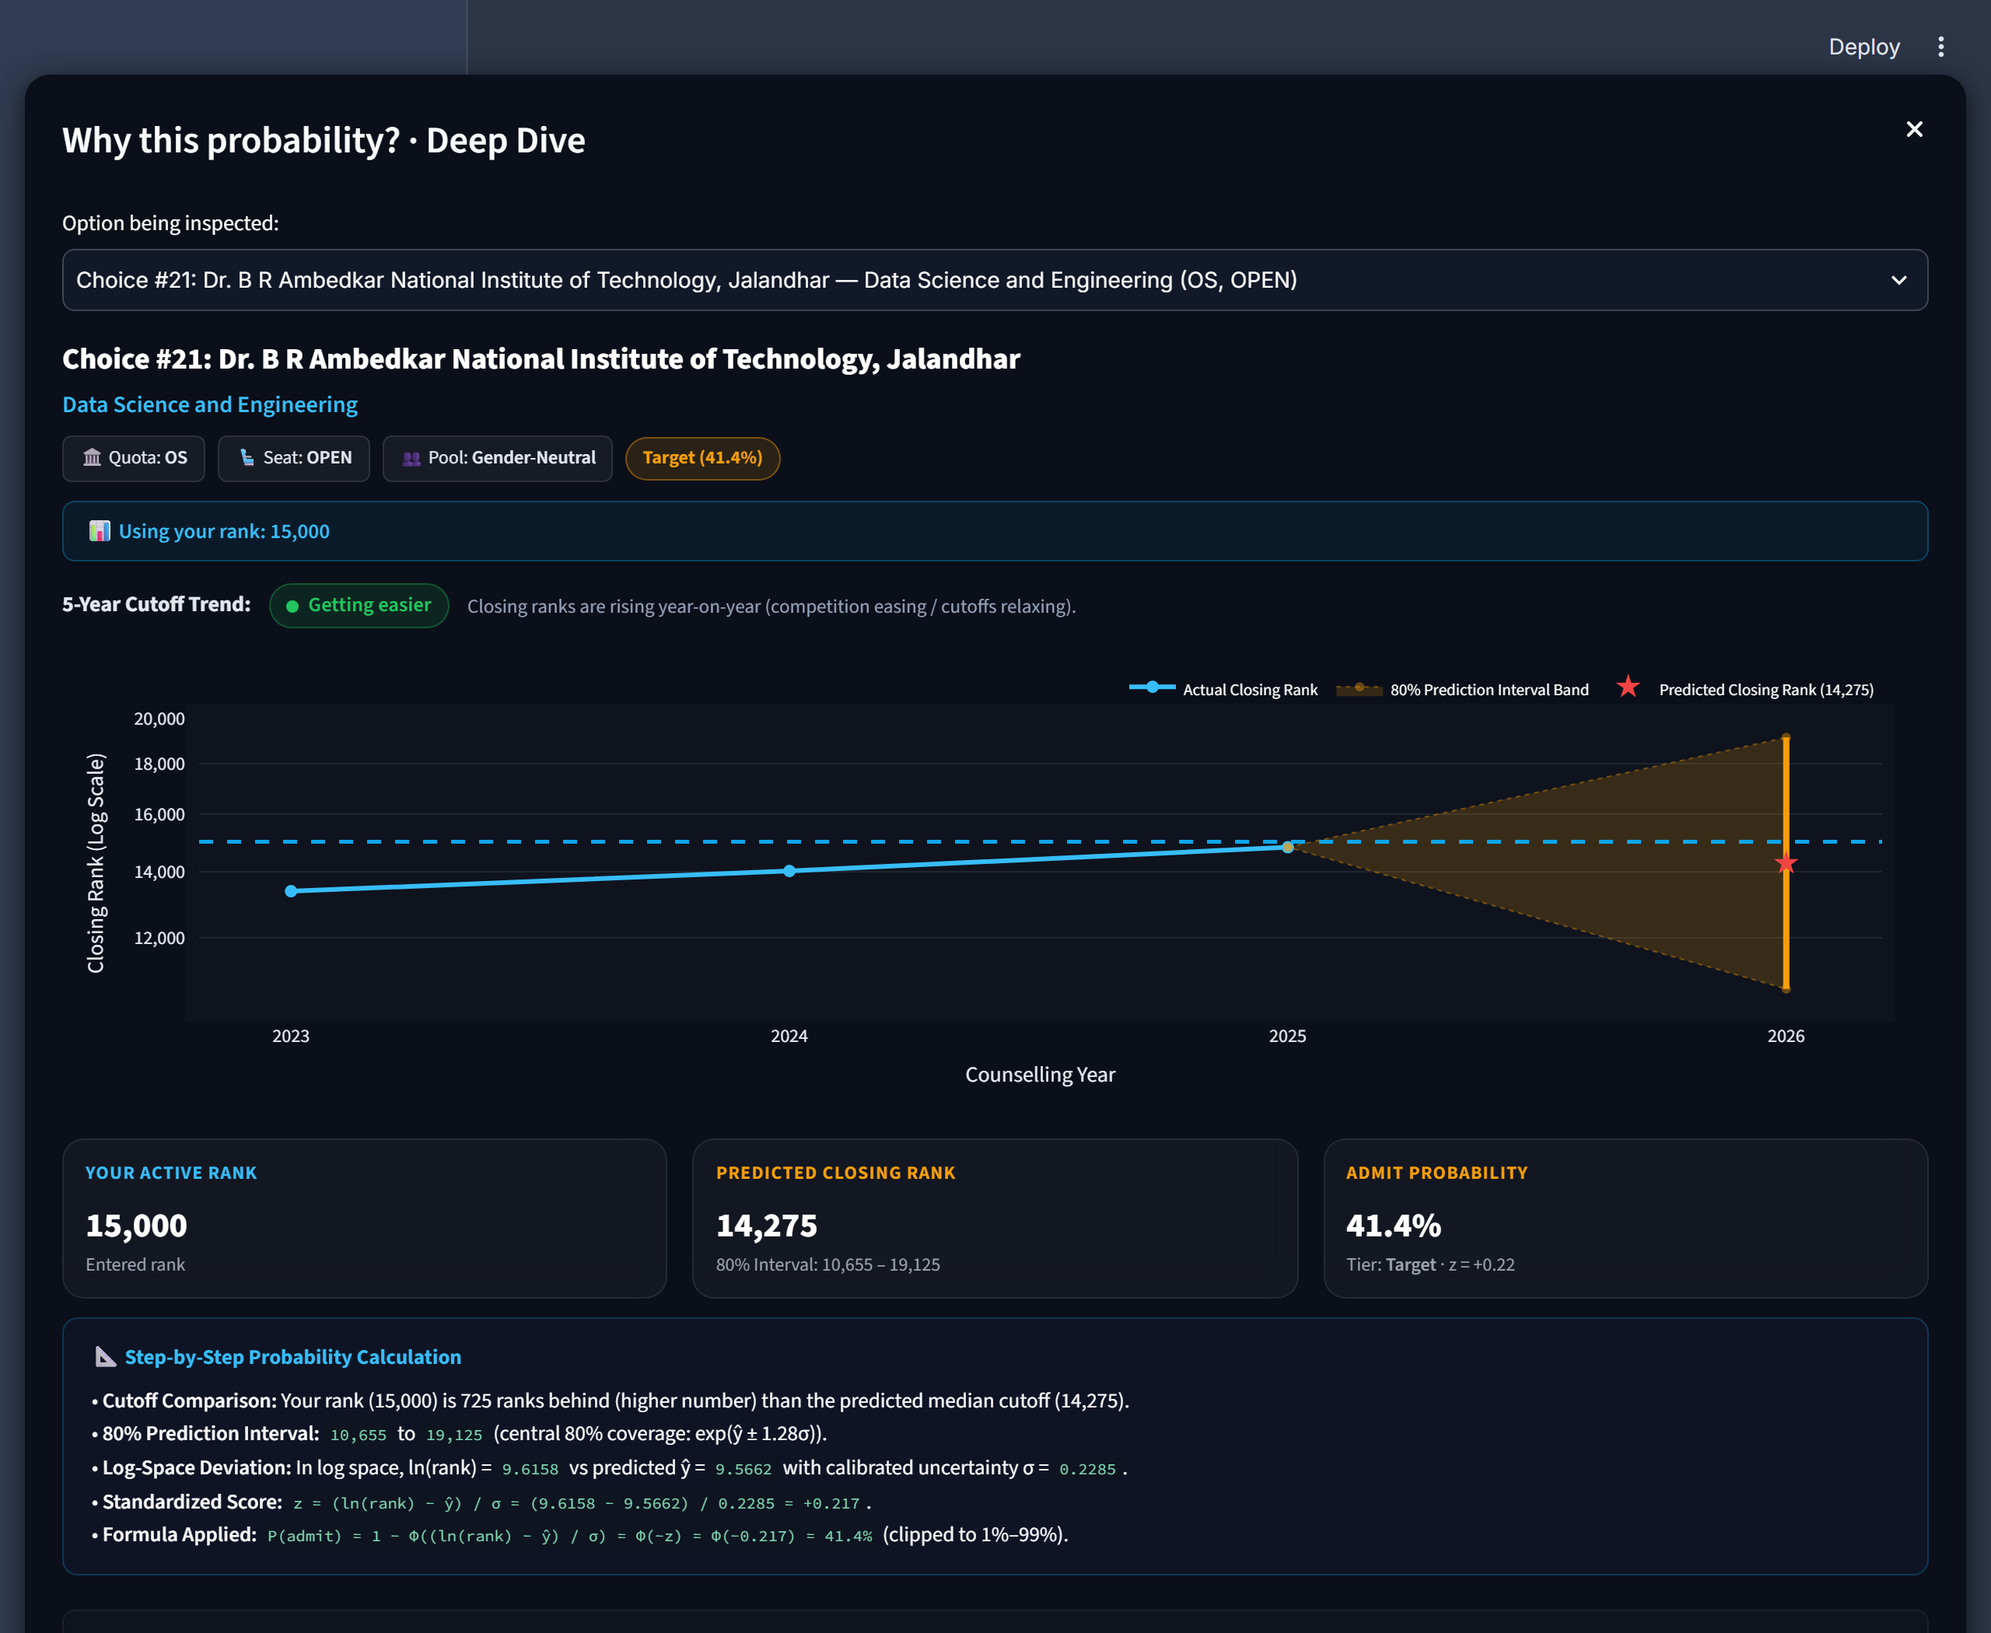
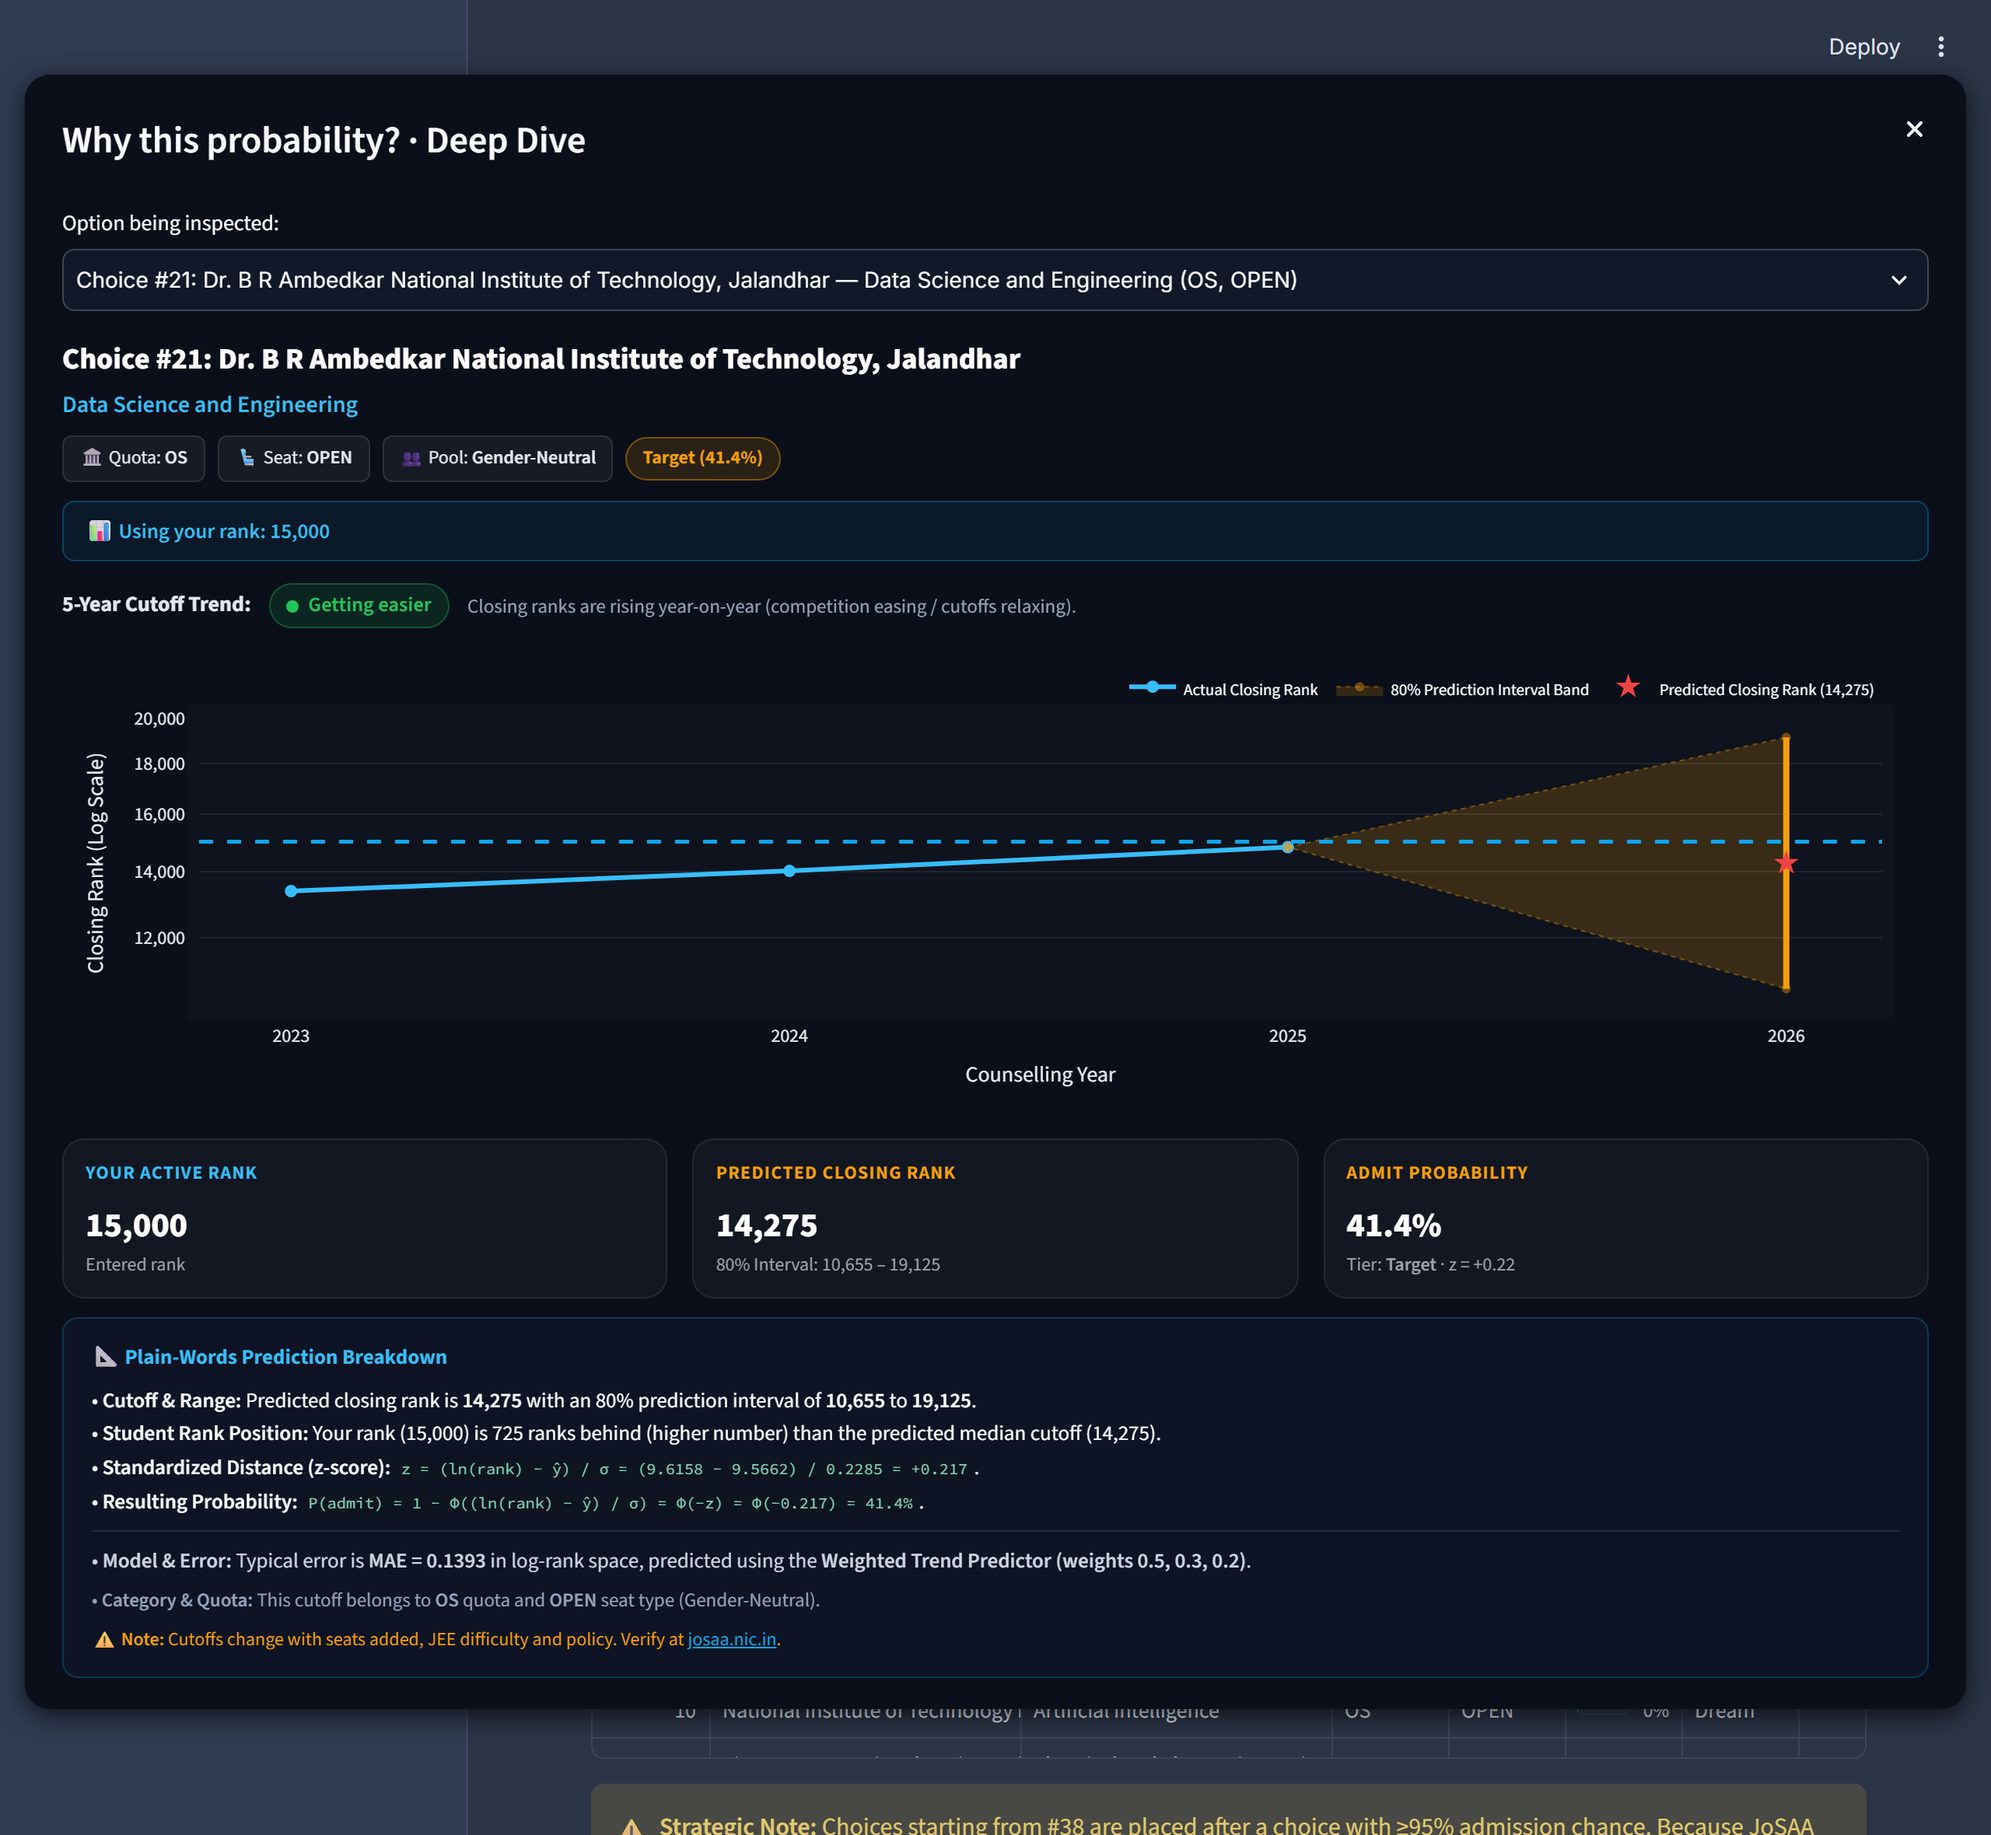
style(v1.1): polish plain-words explanation breakdown and viewport framing in deep dive dialog

diff --git a/app/streamlit_app.py b/app/streamlit_app.py
@@ -375,28 +375,19 @@ def show_why_dialog(
     st.markdown(
         f"""
         <div class="formula-box">
-            <div style="font-weight: 700; color: #38BDF8; margin-bottom: 6px;">📐 Step-by-Step Probability Calculation</div>
-            <div>• <strong>Cutoff Comparison:</strong> {explanation['diff_text']}</div>
-            <div>• <strong>80% Prediction Interval:</strong> <code>{explanation['low_80']:,}</code> to <code>{explanation['high_80']:,}</code> (central 80% coverage: exp(y&#770; &plusmn; 1.28&sigma;)).</div>
-            <div>• <strong>Log-Space Deviation:</strong> In log space, ln(rank) = <code>{np.log(current_student_rank):.4f}</code> vs predicted y&#770; = <code>{row['y_hat']:.4f}</code> with calibrated uncertainty &sigma; = <code>{sigma:.4f}</code>.</div>
-            <div>• <strong>Standardized Score:</strong> <code>z = (ln(rank) - y&#770;) / &sigma; = ({np.log(current_student_rank):.4f} - {row['y_hat']:.4f}) / {sigma:.4f} = {explanation['z_score']:+.3f}</code>.</div>
-            <div>• <strong>Formula Applied:</strong> <code>P(admit) = 1 - &Phi;((ln(rank) - y&#770;) / &sigma;) = &Phi;(-z) = &Phi;({-explanation['z_score']:+.3f}) = {explanation['prob_pct']:.1f}%</code> (clipped to 1%–99%).</div>
-        </div>
-        """,
-        unsafe_allow_html=True,
-    )
-
-    # Model metadata & official notice
-    st.markdown(
-        f"""
-        <div style="background: rgba(255, 255, 255, 0.02); border: 1px solid rgba(255, 255, 255, 0.06); border-radius: 8px; padding: 10px 14px; margin-top: 10px; font-size: 12.5px; color: #94A3B8;">
-            <div style="margin-bottom: 4px;">
-                🤖 <strong>Model:</strong> {explanation['model_name']} &nbsp;|&nbsp; 
-                <strong>Measured Error:</strong> MAE = {explanation['mae']:.4f} in log-rank space (~14% error) &nbsp;|&nbsp; 
-                <strong>80% Coverage:</strong> {explanation['coverage_80_pct']:.1f}% on held-out validation.
+            <div style="font-weight: 700; color: #38BDF8; margin-bottom: 6px;">📐 Plain-Words Prediction Breakdown</div>
+            <div>• <strong>Cutoff & Range:</strong> Predicted closing rank is <strong>{explanation['pred_rank']:,}</strong> with an 80% prediction interval of <strong>{explanation['low_80']:,}</strong> to <strong>{explanation['high_80']:,}</strong>.</div>
+            <div>• <strong>Student Rank Position:</strong> {explanation['diff_text']}</div>
+            <div>• <strong>Standardized Distance (z-score):</strong> <code>z = (ln(rank) - y&#770;) / &sigma; = ({np.log(current_student_rank):.4f} - {row['y_hat']:.4f}) / {sigma:.4f} = {explanation['z_score']:+.3f}</code>.</div>
+            <div>• <strong>Resulting Probability:</strong> <code>P(admit) = 1 - &Phi;((ln(rank) - y&#770;) / &sigma;) = &Phi;(-z) = &Phi;({-explanation['z_score']:+.3f}) = {explanation['prob_pct']:.1f}%</code>.</div>
+            <div style="margin-top: 8px; padding-top: 8px; border-top: 1px solid rgba(255, 255, 255, 0.1); color: #CBD5E1;">
+                • <strong>Model & Error:</strong> Typical error is <strong>MAE = {explanation['mae']:.4f}</strong> in log-rank space, predicted using the <strong>{explanation['model_name']}</strong>.
             </div>
-            <div>
-                ⚠ <strong>Official Verification Reminder:</strong> Cutoffs change with seats added, JEE difficulty and policy. Verify at <a href="https://josaa.nic.in" target="_blank" style="color: #0EA5E9; text-decoration: underline;">josaa.nic.in</a>.
+            <div style="margin-top: 4px; color: #94A3B8; font-size: 12.5px;">
+                • <strong>Category & Quota:</strong> This cutoff belongs to <strong>{row['quota']}</strong> quota and <strong>{row['seat_type']}</strong> seat type ({row['gender']}).
+            </div>
+            <div style="margin-top: 6px; font-size: 12px; color: #F59E0B;">
+                ⚠ <strong>Note:</strong> Cutoffs change with seats added, JEE difficulty and policy. Verify at <a href="https://josaa.nic.in" target="_blank" style="color: #0EA5E9; text-decoration: underline;">josaa.nic.in</a>.
             </div>
         </div>
         """,
@@ -1032,17 +1023,19 @@ explanation = compute_prediction_explanation(
 st.markdown(
     f"""
     <div class="formula-box">
-        <div style="font-weight: 700; color: #38BDF8; margin-bottom: 6px;">📐 Plain-Words Prediction & Formula Breakdown</div>
-        <div>• <strong>Cutoff Comparison:</strong> {explanation['diff_text']}</div>
-        <div>• <strong>80% Prediction Interval:</strong> <code>{explanation['low_80']:,}</code> to <code>{explanation['high_80']:,}</code> (central 80% coverage: exp(y&#770; &plusmn; 1.28&sigma;)).</div>
-        <div>• <strong>Log-Space Deviation:</strong> ln(rank) = <code>{np.log(current_student_rank):.4f}</code> vs predicted y&#770; = <code>{selected_row['y_hat']:.4f}</code> with calibrated uncertainty &sigma; = <code>{model_sigma:.4f}</code>.</div>
-        <div>• <strong>Standardized Distance:</strong> <code>z = (ln(rank) - y&#770;) / &sigma; = ({np.log(current_student_rank):.4f} - {selected_row['y_hat']:.4f}) / {model_sigma:.4f} = {explanation['z_score']:+.3f}</code>.</div>
-        <div>• <strong>Formula Applied:</strong> <code>P(admit) = 1 - &Phi;((ln(rank) - y&#770;) / &sigma;) = &Phi;(-z) = &Phi;({-explanation['z_score']:+.3f}) = {explanation['prob_pct']:.1f}%</code> (clipped to 1%–99%).</div>
-        <div style="margin-top: 8px; padding-top: 8px; border-top: 1px solid rgba(255, 255, 255, 0.08); font-size: 12.5px; color: #94A3B8;">
-            🤖 <strong>Model:</strong> {explanation['model_name']} &nbsp;|&nbsp; 
-            <strong>Measured Validation Error:</strong> MAE = {explanation['mae']:.4f} in log-rank space &nbsp;|&nbsp; 
-            <strong>80% Coverage:</strong> {explanation['coverage_80_pct']:.1f}%.<br>
-            ⚠ <strong>Reminder:</strong> Cutoffs change with seats added, JEE difficulty and policy. Verify at <a href="https://josaa.nic.in" target="_blank" style="color: #0EA5E9; text-decoration: underline;">josaa.nic.in</a>.
+        <div style="font-weight: 700; color: #38BDF8; margin-bottom: 6px;">📐 Plain-Words Prediction Breakdown</div>
+        <div>• <strong>Cutoff & Range:</strong> Predicted closing rank is <strong>{explanation['pred_rank']:,}</strong> with an 80% prediction interval of <strong>{explanation['low_80']:,}</strong> to <strong>{explanation['high_80']:,}</strong>.</div>
+        <div>• <strong>Student Rank Position:</strong> {explanation['diff_text']}</div>
+        <div>• <strong>Standardized Distance (z-score):</strong> <code>z = (ln(rank) - y&#770;) / &sigma; = ({np.log(current_student_rank):.4f} - {selected_row['y_hat']:.4f}) / {model_sigma:.4f} = {explanation['z_score']:+.3f}</code>.</div>
+        <div>• <strong>Resulting Probability:</strong> <code>P(admit) = 1 - &Phi;((ln(rank) - y&#770;) / &sigma;) = &Phi;(-z) = &Phi;({-explanation['z_score']:+.3f}) = {explanation['prob_pct']:.1f}%</code>.</div>
+        <div style="margin-top: 8px; padding-top: 8px; border-top: 1px solid rgba(255, 255, 255, 0.1); color: #CBD5E1;">
+            • <strong>Model & Error:</strong> Typical error is <strong>MAE = {explanation['mae']:.4f}</strong> in log-rank space, predicted using the <strong>{explanation['model_name']}</strong>.
+        </div>
+        <div style="margin-top: 4px; color: #94A3B8; font-size: 12.5px;">
+            • <strong>Category & Quota:</strong> This cutoff belongs to <strong>{selected_row['quota']}</strong> quota and <strong>{selected_row['seat_type']}</strong> seat type ({selected_row['gender']}).
+        </div>
+        <div style="margin-top: 6px; font-size: 12px; color: #F59E0B;">
+            ⚠ <strong>Note:</strong> Cutoffs change with seats added, JEE difficulty and policy. Verify at <a href="https://josaa.nic.in" target="_blank" style="color: #0EA5E9; text-decoration: underline;">josaa.nic.in</a>.
         </div>
     </div>
     """,

diff --git a/scripts/capture_feature3_screenshots.py b/scripts/capture_feature3_screenshots.py
@@ -18,7 +18,7 @@ targets = [
 ]
 
 viewports = [
-    ("desktop", {"width": 1280, "height": 1050}),
+    ("desktop", {"width": 1280, "height": 1180}),
     ("mobile_390px", {"width": 390, "height": 844, "is_mobile": True}),
 ]
 
